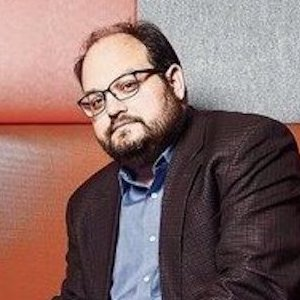
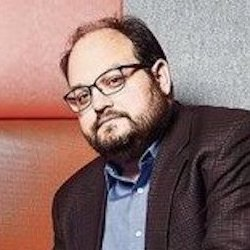
All images updated in Event Schedule section

diff --git a/index.html b/index.html
@@ -453,7 +453,7 @@
             <div class="col-md-2"><time>09:15 AM</time></div>
             <div class="col-md-10">
               <div class="speaker">
-                <img src="img/speakers/Ranjini_Ambalavanar.jpg" alt="Ranjini Ambalavanar">
+                <img src="img/speakers/Ranjini_Ambalavanar2.jpg" alt="Ranjini Ambalavanar">
               </div>
               <h4>Speaker <span>Ranjini Ambalavanar</span></h4>
               <!-- <p>Facere provident incidunt quos voluptas.</p> -->
@@ -464,7 +464,7 @@
             <div class="col-md-2"><time>10:00 AM</time></div>
             <div class="col-md-10">
               <div class="speaker">
-                <img src="img/speakers/Jennifer_Byrne.png" alt="Jennifer Byrne">
+                <img src="img/speakers/Jennifer_Byrne2.png" alt="Jennifer Byrne">
               </div>
               <h4>Speaker <span>Jennifer Byrne</span></h4>
               <!-- <p>Maiores dignissimos neque qui cum accusantium ut sit sint inventore.</p> -->
@@ -497,7 +497,7 @@
             <div class="col-md-2"><time>11:45 AM</time></div>
             <div class="col-md-10">
               <div class="speaker">
-                <img src="img/speakers/Michele_Nuijten.jpeg" alt="Michèle Nuijten">
+                <img src="img/speakers/Michele_Nuijten2.jpeg" alt="Michèle Nuijten">
               </div>
               <h4>Speaker <span>Michèle Nuijten</span></h4>
               <!-- <p>Eligendi quo eveniet est nobis et ad temporibus odio quo.</p> -->
@@ -519,7 +519,7 @@
             <div class="col-md-2"><time>13:30 PM</time></div>
             <div class="col-md-10">
               <div class="speaker">
-                <img src="img/speakers/Edward_Delp.jpg" alt="Edward J. Delp">
+                <img src="img/speakers/Edward_Delp2.jpg" alt="Edward J. Delp">
               </div>
               <h4>Speaker <span>Edward J. Delp</span></h4>
               <!-- <p>Voluptatem et alias dolorum est aut sit enim neque veritatis.</p> -->
@@ -596,7 +596,7 @@
             <div class="col-md-2"><time>09:15 AM</time></div>
             <div class="col-md-10">
               <div class="speaker">
-                <img src="img/speakers/Elisabeth_Bik.png" alt="Elisabeth Bik">
+                <img src="img/speakers/Elisabeth_Bik2.png" alt="Elisabeth Bik">
               </div>
               <h4>Speaker <span>Elisabeth Bik</span></h4>
               <!-- <p>Facere provident incidunt quos voluptas.</p> -->
@@ -640,7 +640,7 @@
             <div class="col-md-2"><time>11:45 AM</time></div>
             <div class="col-md-10">
               <div class="speaker">
-                <img src="img/speakers/Matthew_Turek.jpeg" alt="Matt Turek">
+                <img src="img/speakers/Matthew_Turek2.jpeg" alt="Matt Turek">
               </div>
               <h4>Speaker <span>Matt Turek</span></h4>
               <!-- <p>Eligendi quo eveniet est nobis et ad temporibus odio quo.</p> -->
@@ -750,7 +750,7 @@
             <div class="col-md-2"><time>10:00 AM</time></div>
             <div class="col-md-10">
               <div class="speaker">
-                <img src="img/speakers/Walter_Scheirer.jpg" alt="Walter Scheirer">
+                <img src="img/speakers/Walter_Scheirer2.jpg" alt="Walter Scheirer">
               </div>
               <h4>Speaker <span>Walter Scheirer</span></h4>
               <!-- <p>Maiores dignissimos neque qui cum accusantium ut sit sint inventore.</p> -->
@@ -772,7 +772,7 @@
             <div class="col-md-2"><time>11:00 AM</time></div>
             <div class="col-md-10">
               <div class="speaker">
-                <img src="img/speakers/Mario_Biagioli.jpg" alt="Mario Biagioli">
+                <img src="img/speakers/Mario_Biagioli2.jpg" alt="Mario Biagioli">
               </div>
               <h4>Speaker <span>Mario Biagioli</span></h4>
               <!-- <p>Nam ex distinctio voluptatem doloremque suscipit iusto.</p> -->
@@ -783,7 +783,7 @@
             <div class="col-md-2"><time>11:45 AM</time></div>
             <div class="col-md-10">
               <div class="speaker">
-                <img src="img/speakers/Thorsten_Beck.jpg" alt="Thorsten Beck">
+                <img src="img/speakers/Thorsten_Beck2.jpg" alt="Thorsten Beck">
               </div>
               <h4>Speaker <span>Thorsten Beck</span></h4>
               <!-- <p>Eligendi quo eveniet est nobis et ad temporibus odio quo.</p> -->
